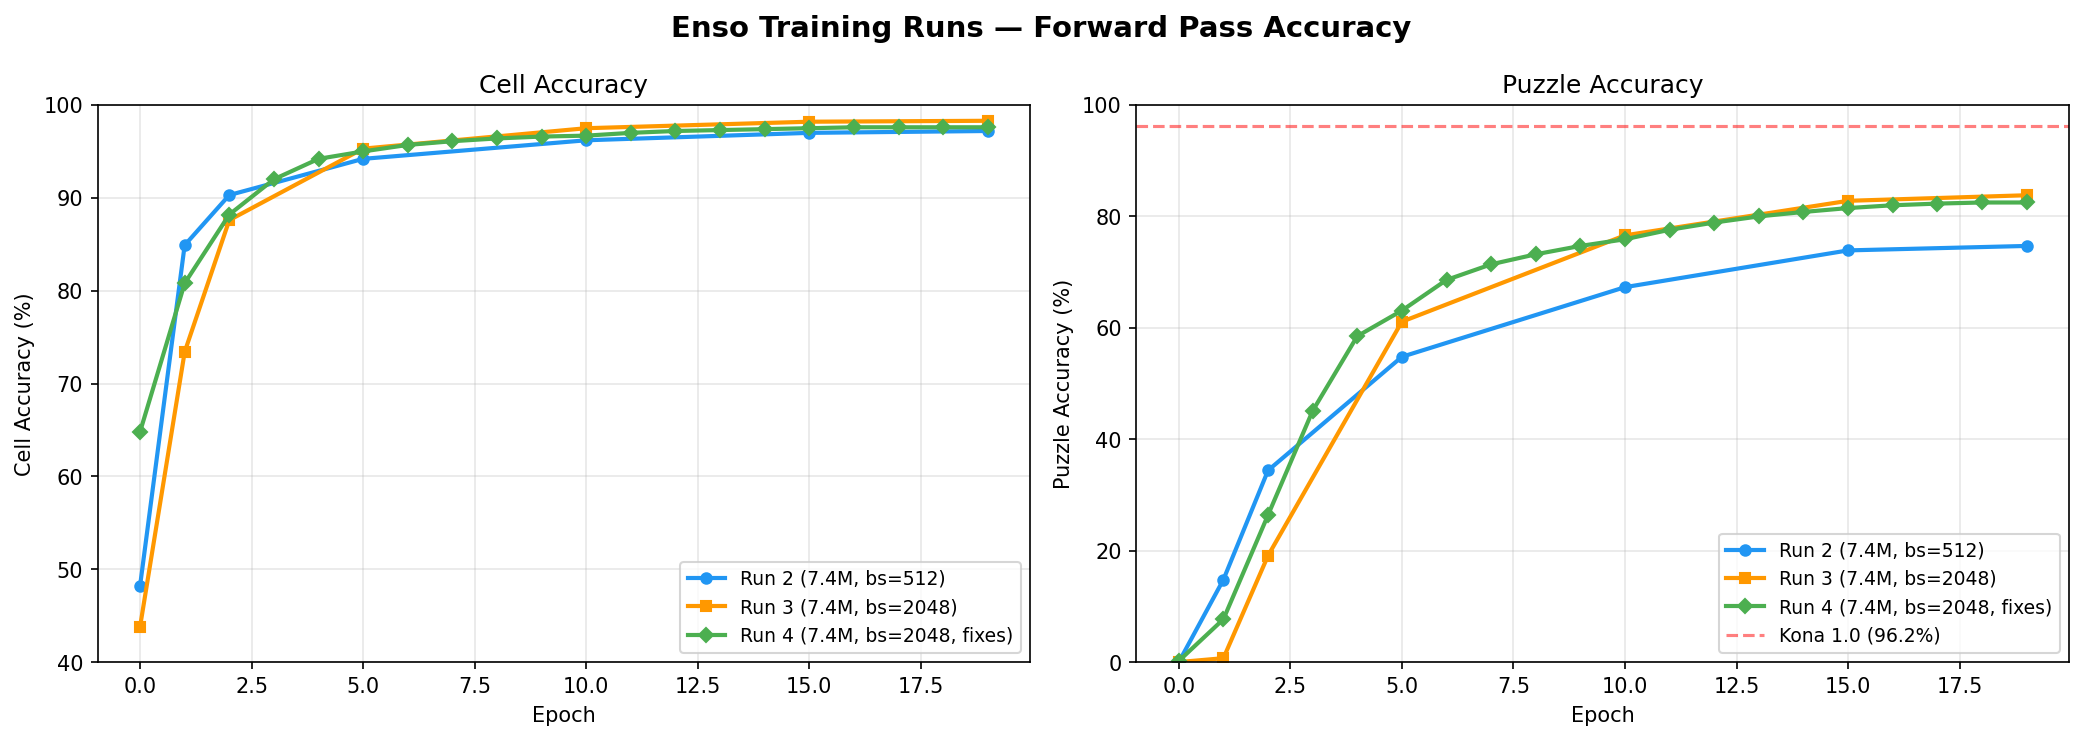
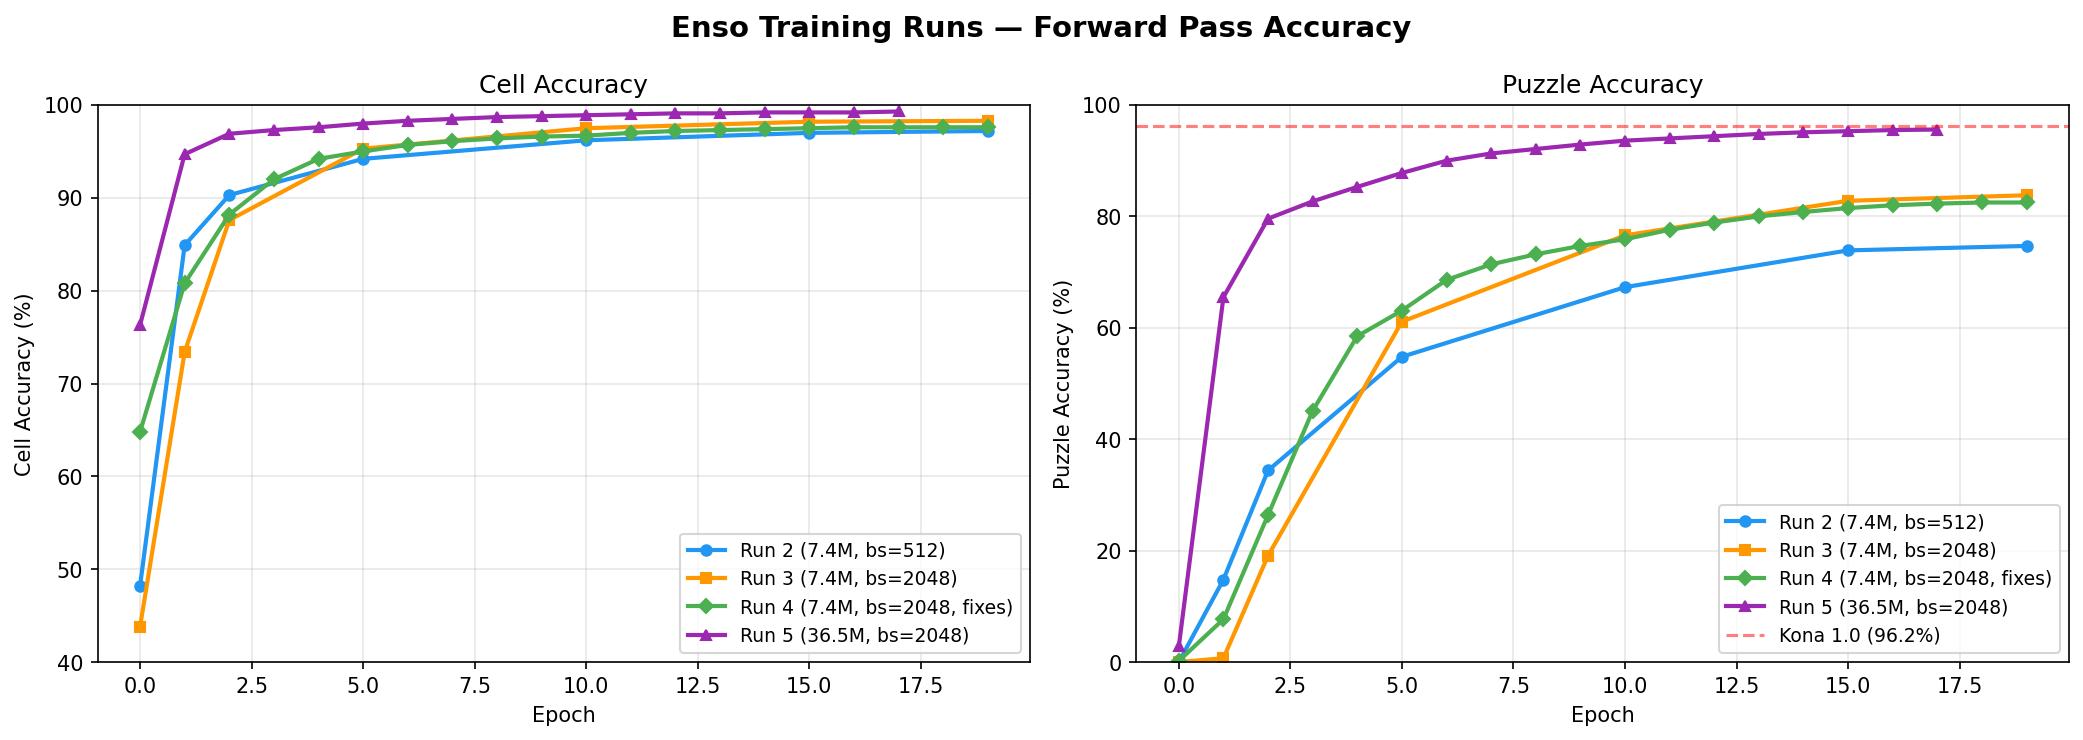
Run 5 results: 95.6% puzzle accuracy at epoch 17/20, approaching Kona's 96.2%
Scaled architecture from 7.4M to 36.5M params. Training still running on H200.
Updated plots, README, and training log with Run 5 progress.

diff --git a/scripts/plot_training.py b/scripts/plot_training.py
@@ -71,6 +71,51 @@ RUNS = {
         'color': '#4CAF50',
         'marker': 'D',
     },
+    'Run 5 (36.5M, bs=2048)': {
+        'epochs': [0, 1, 2, 3, 4, 5, 6, 7, 8, 9, 10, 11, 12, 13, 14, 15, 16, 17],
+        'cell_acc': [
+            76.3,
+            94.7,
+            96.9,
+            97.3,
+            97.6,
+            98.0,
+            98.3,
+            98.5,
+            98.7,
+            98.8,
+            98.9,
+            99.0,
+            99.1,
+            99.1,
+            99.2,
+            99.2,
+            99.2,
+            99.3,
+        ],
+        'puzzle_acc': [
+            2.8,
+            65.5,
+            79.6,
+            82.7,
+            85.3,
+            87.8,
+            90.0,
+            91.3,
+            92.1,
+            92.9,
+            93.6,
+            94.0,
+            94.4,
+            94.8,
+            95.1,
+            95.3,
+            95.5,
+            95.6,
+        ],
+        'color': '#9C27B0',
+        'marker': '^',
+    },
 }
 
 

diff --git a/README.md b/README.md
@@ -1,6 +1,10 @@
 # Enso
 
-An open-source replication of [Logical Intelligence's Kona 1.0](https://sudoku.logicalintelligence.com/) — an Energy-Based Model that solves Sudoku through latent reasoning. Kona achieved [96.2% accuracy on hard Sudoku](https://logicalintelligence.com/blog/energy-based-model-sudoku-demo) in ~313ms per puzzle, while frontier LLMs (GPT-5.2, Claude Opus 4.5, Gemini 3 Pro, DeepSeek V3.2) managed just 2% combined. This project implements the core idea: learn an energy landscape in representation space where valid solutions have low energy, then "think" at inference time by optimizing a latent variable via Langevin dynamics.
+An open-source replication of [Logical Intelligence's Kona 1.0](https://sudoku.logicalintelligence.com/) — an Energy-Based Model that solves Sudoku through latent reasoning. Kona achieved [96.2% accuracy on hard Sudoku](https://logicalintelligence.com/blog/energy-based-model-sudoku-demo) in ~313ms per puzzle, while frontier LLMs (GPT-5.2, Claude Opus 4.5, Gemini 3 Pro, DeepSeek V3.2) managed just 2% combined.
+
+**Current status: 95.6% puzzle accuracy at epoch 17/20, training still running.** On track to match Kona's 96.2% benchmark — with Langevin dynamics inference expected to push accuracy higher.
+
+This project implements the core idea: learn an energy landscape in representation space where valid solutions have low energy, then "think" at inference time by optimizing a latent variable via Langevin dynamics.
 
 ## Motivation
 
@@ -75,7 +79,7 @@ graph LR
 | **Target Encoder** | Same architecture, processes solutions. Updated via EMA from context encoder (no gradients). | EMA momentum 0.996 -> 1.0 |
 | **Predictor** | 3-layer MLP mapping (z_context, z) -> z_pred. Intentionally limited capacity so it can't ignore z. | hidden=1024 |
 | **Decoder** | 4-layer Transformer decoding (z_context, z) to per-cell digit logits. Hard-enforces given clues. | 8 heads, d_cell=128 |
-| **Total** | ~50M trainable parameters | |
+| **Total** | ~36.5M trainable parameters | |
 
 ### Loss Function
 
@@ -99,17 +103,20 @@ At inference time, the model solves puzzles through Langevin dynamics — gradie
 
 ## Results
 
-Trained on 9M puzzles (8M train / 500K val), 20 epochs per run on RTX 5090.
+Trained on 9M puzzles (8M train / 500K val), 20 epochs per run.
 
 ![Training Runs](assets/training_runs.png)
 
-| Run | Changes | Cell Acc | Puzzle Acc | Langevin Puzzle Acc |
-|-----|---------|----------|------------|---------------------|
-| Run 2 | Baseline (bs=512, lr=3e-4) | 97.2% | 74.7% | 70.7% (-4.0) |
-| Run 3 | Larger batch (bs=2048, lr=6e-4) | 98.3% | 83.8% | 81.0% (-2.8) |
-| Run 4 | + z normalization, constraint loss, self-consistency energy | 97.6% | 82.5% | **83.5% (+1.0)** |
+| Run | Config | Cell Acc | Puzzle Acc | Langevin Puzzle Acc |
+|-----|--------|----------|------------|---------------------|
+| Run 2 | 7.4M params, bs=512, RTX 5090 | 97.2% | 74.7% | 70.7% (-4.0) |
+| Run 3 | 7.4M params, bs=2048, RTX 5090 | 98.3% | 83.8% | 81.0% (-2.8) |
+| Run 4 | 7.4M + Langevin fixes, RTX 5090 | 97.6% | 82.5% | 83.5% (+1.0) |
+| **Run 5** | **36.5M params, bs=2048, H200** | **99.3%** | **95.6%** | **training (epoch 17/20)** |
 
-**Key milestone in Run 4:** Langevin dynamics improved puzzle accuracy for the first time (+1.0%), after consistently hurting results in prior runs. The three structural fixes (L2-normalized z_encoder, constraint loss during training, self-consistency inference energy) aligned the solver with what the model learned.
+Run 5 scaled the architecture from 7.4M to 36.5M parameters (d_model 256→512, encoder 6→8 layers, decoder 2→4 layers). At epoch 17 of 20, forward-pass puzzle accuracy is **95.6%** — approaching Kona's 96.2% benchmark before Langevin dynamics inference is even applied.
+
+In Run 4, Langevin dynamics added +1.0% to puzzle accuracy (the first time it improved results). With the larger model, the solver is expected to push final accuracy into Kona territory.
 
 Note: Kona's 96.2% is on hard puzzles specifically; our validation set includes all difficulty levels.
 

diff --git a/training-log.md b/training-log.md
@@ -80,6 +80,27 @@ Five critical bugs fixed before meaningful training: (1) solution tensor encodin
 
 ---
 
+## Run 5: Scaled Architecture (9M samples, 20 epochs) — IN PROGRESS
+
+**Date:** Feb 15-16 | **Hardware:** H200 (144GB) | **Config:** 9M samples, bs=2048, lr=6e-4 | **Duration:** ~22h
+
+**Changes:** Scaled architecture from 7.4M to 36.5M trainable parameters: d_model 256→512, encoder 6→8 layers, decoder 2→4 layers, d_latent 128→256, predictor hidden 512→1024, decoder d_cell 64→128.
+
+| Epoch | Cell Acc | Puzzle Acc |
+|-------|----------|------------|
+| 0 | 76.3% | 2.8% |
+| 1 | 94.7% | 65.5% |
+| 5 | 98.0% | 87.8% |
+| 10 | 98.9% | 93.6% |
+| 15 | 99.2% | 95.3% |
+| 17 | **99.3%** | **95.6%** |
+
+**vs Run 4:** Massive improvement from capacity alone — +1.7% cell, +13.1% puzzle at epoch 17 (vs Run 4 epoch 19). Model is still training (epoch 17/20) with accuracy still climbing.
+
+**Approaching Kona:** Forward-pass puzzle accuracy of 95.6% is within striking distance of Kona 1.0's 96.2% on hard puzzles, before Langevin dynamics inference is applied. In Run 4, Langevin added +1.0% — if the same holds here, final accuracy should reach ~96-97%.
+
+---
+
 ## Key Lessons
 
 - **Representation collapse is the primary failure mode.** Without VICReg on the right tensor (`z_context`, not `z_pred`), encoders collapse to a point. Monitor z_variance.
